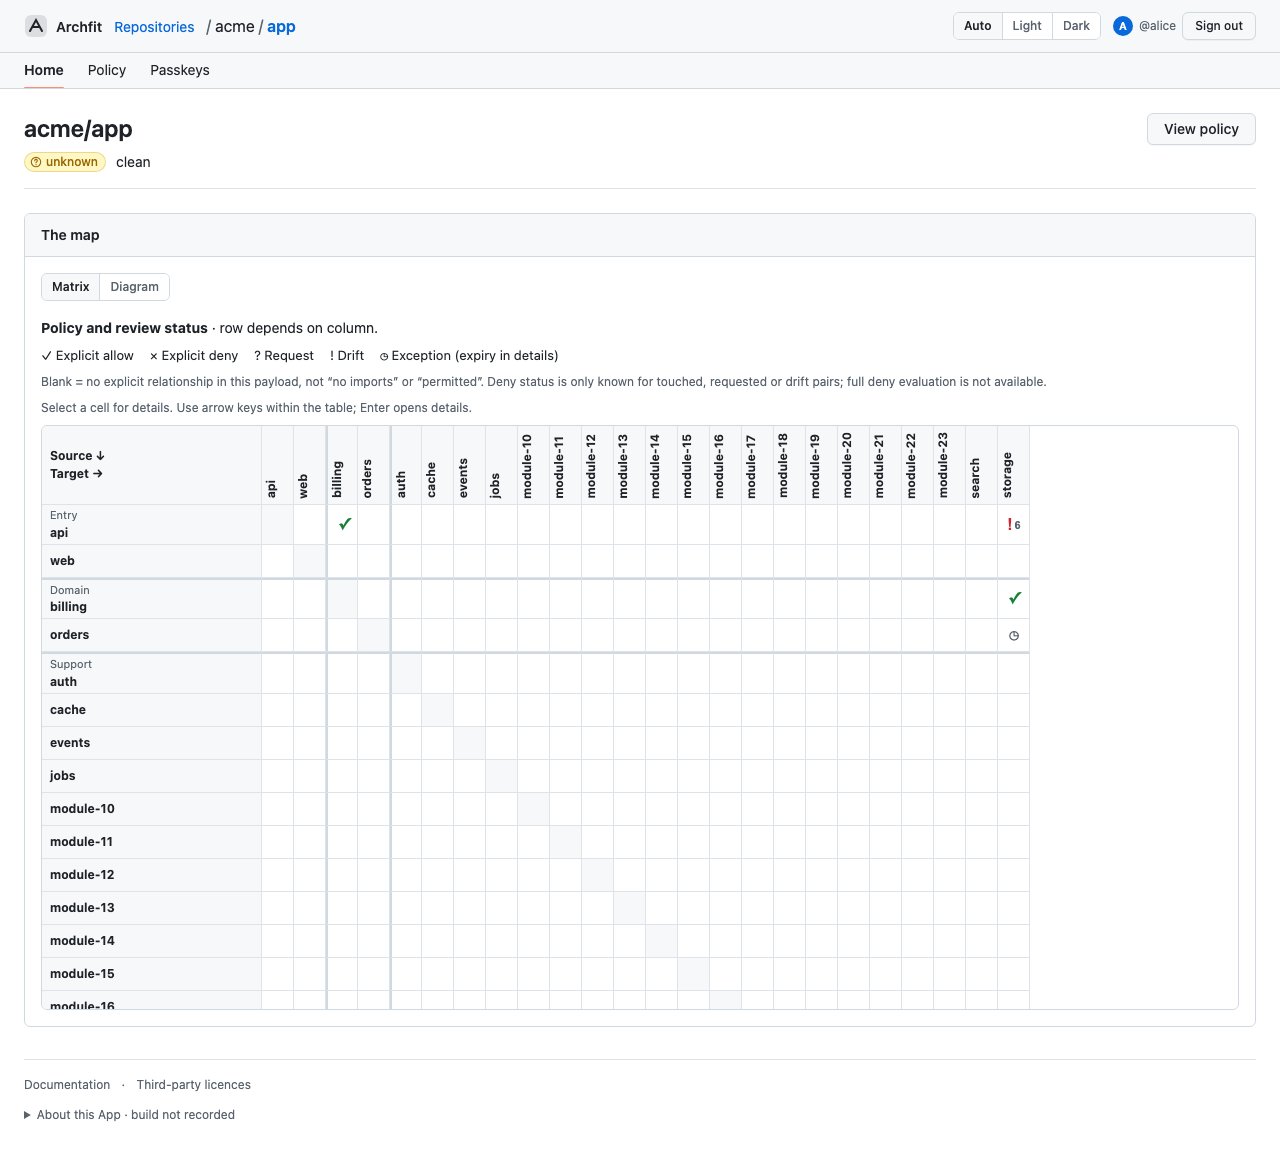
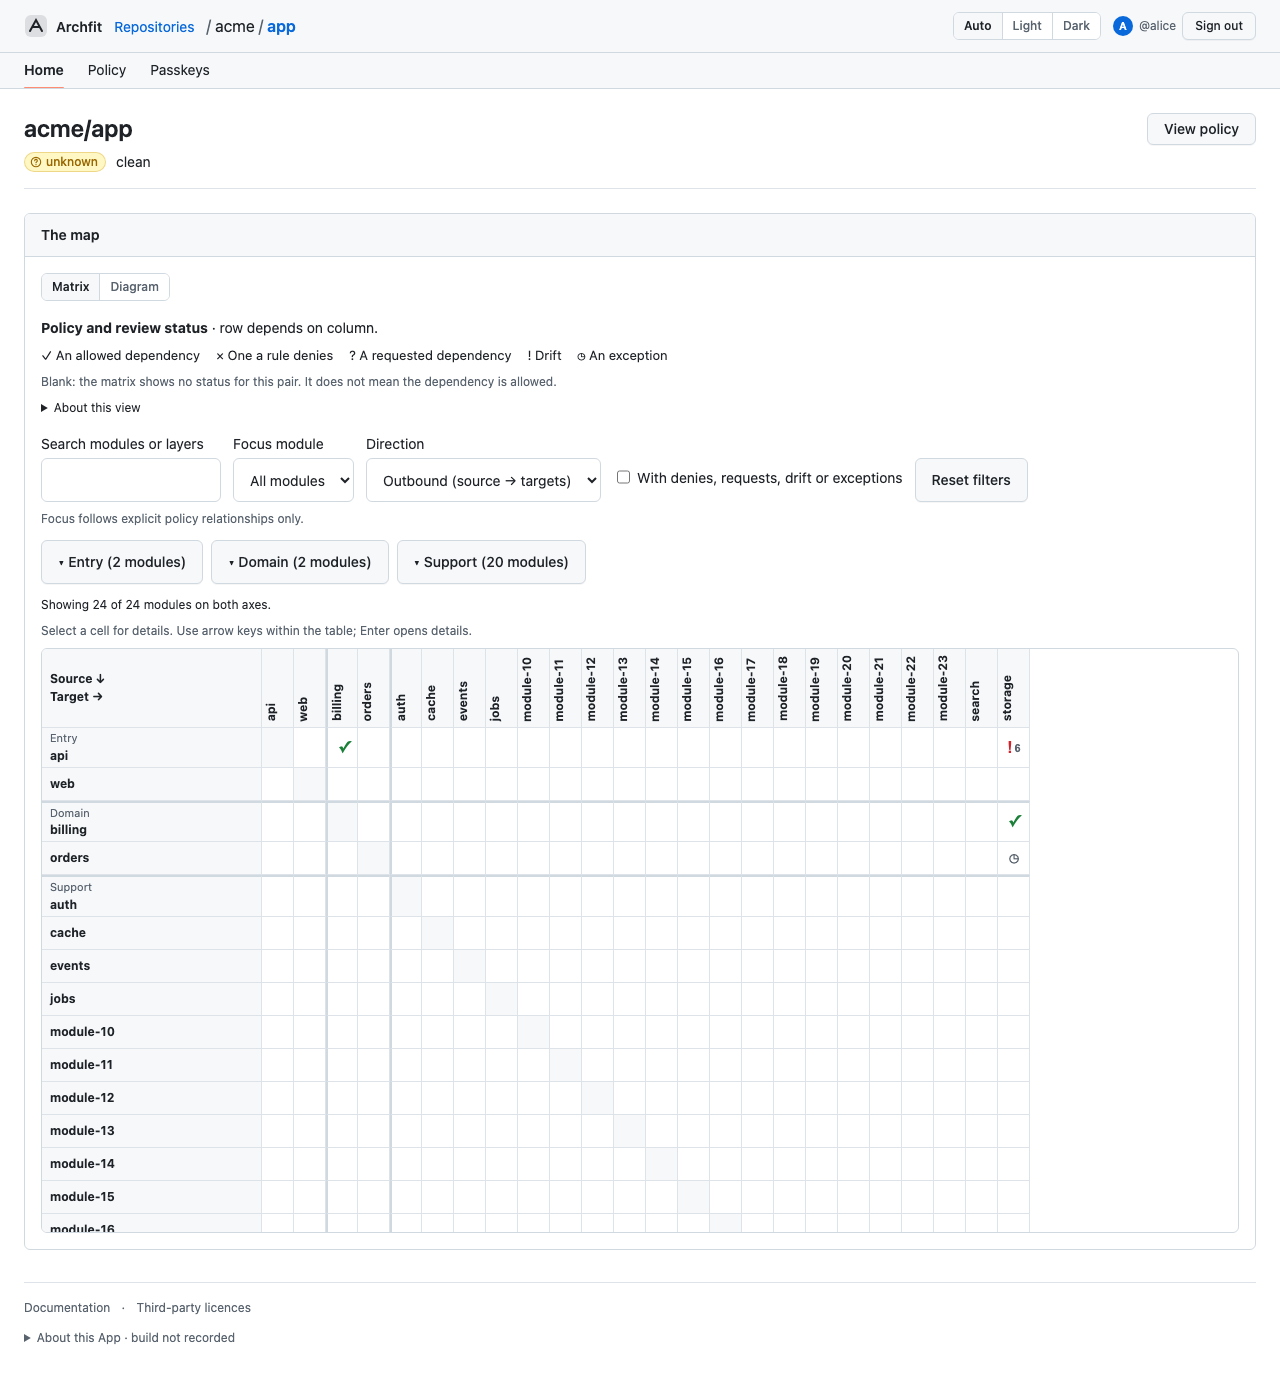
feat(web): matrix details, filters from 12 modules, plain copy (#197)
* feat(web): compact matrix from 12 modules, names break at _ and -, one symbol with a count per cell

32 px symbol cells, vertical column names and a 220 px row header make 24 modules fit 1280 px. A cell shows its
strongest status and how many statuses it has. Exceptions within seven days are ringed; later ones are grey.

* fix(web): matrix never reads an exception without a date as a pass

* fix(web): drop unused import

* docs(images): matrix screenshots for 24 modules at 1280 and 390 px

* feat(web): matrix details show the exception date; filters from 12 modules; plain copy

Legend uses the design's words for the five kinds. A blank cell means the policy says nothing about the pair;
the deny caveat moves into About this view. The dialog drops payload, Evidence scope and scan coverage. The
attention filter is named for what it shows. The search, focus, layer and attention filters appear from 12 modules.

* docs(images): matrix details dialog and legend

* fix(web): matrix uses the legend words everywhere; a blank cell is not a claim the policy is silent

Dialog statuses and cell labels use the same five words as the legend. A blank cell says the matrix shows no status, since a deny rule may apply to a pair the App did not touch.

diff --git a/web/src/components/map/Dsm.svelte b/web/src/components/map/Dsm.svelte
@@ -2,7 +2,7 @@
   import { tick } from 'svelte';
   import { repoPage } from '../../lib/route';
   import { mapLayers, type MapModel } from './model';
-  import { breakable, cellView, compactFrom, isNavKey, nextCell, pairIndex, pairKey, statusLabel, symbols, visibleModules, type Cell } from './dsm';
+  import { breakable, cellView, compactFrom, filtersFrom, isNavKey, kindWords, nextCell, pairIndex, pairKey, statusLabel, symbols, visibleModules, type Cell } from './dsm';
 
   let { model, repo }: { model: MapModel; repo: string } = $props();
   const id = $props.id();
@@ -103,12 +103,15 @@
   {:else}
   <p class="orientation"><strong>Policy and review status</strong> · row depends on column.</p>
   <ul class="legend" aria-label="Matrix legend">
-    <li>✓ Explicit allow</li><li>× Explicit deny</li><li>? Request</li><li>! Drift</li><li>◷ Exception (expiry in details)</li>
+    <li>{symbols.allowed} {kindWords.allowed}</li><li>{symbols.deny} {kindWords.deny}</li><li>{symbols.requested} {kindWords.requested}</li><li>{symbols.drift} {kindWords.drift}</li><li>{symbols.exception} {kindWords.exception}</li>
   </ul>
-  <p class="muted small" id={id + '-scope'}>Blank = no explicit relationship in this payload, not “no imports” or “permitted”.
-    Deny status is only known for touched, requested or drift pairs; full deny evaluation is not available.</p>
+  <p class="muted small" id={id + '-scope'}>Blank: the matrix shows no status for this pair. It does not mean the dependency is allowed.</p>
+  <details class="about small">
+    <summary>About this view</summary>
+    <p>Deny status is only shown for touched, requested or drift pairs. A blank pair may still be denied by a rule.</p>
+  </details>
 
-  {#if model.modules.length >= 50}
+  {#if model.modules.length >= filtersFrom}
     <div class="filters">
       <label>Search modules or layers<input class="form-control" type="search" bind:value={search} /></label>
       <label>Focus module<select class="form-control" bind:value={focus}>
@@ -120,10 +123,10 @@
       <label>Direction<select class="form-control" bind:value={direction}>
         <option value="outbound">Outbound (source → targets)</option><option value="inbound">Inbound (sources → target)</option>
       </select></label>
-      <label class="attention"><input type="checkbox" bind:checked={attention} /> Needs attention</label>
+      <label class="attention"><input type="checkbox" bind:checked={attention} /> With denies, requests, drift or exceptions</label>
       <button class="btn" onclick={reset}>Reset filters</button>
     </div>
-    <p class="muted small">Focus follows explicit payload relationships only. Needs attention shows modules with denies, requests, drift or exceptions.</p>
+    <p class="muted small">Focus follows explicit policy relationships only.</p>
     <div class="layers" role="group" aria-label="Visible layers">
       {#each mapLayers(model) as layer (layer)}
         <button class="btn" aria-expanded={!collapsed.includes(layer)} onclick={() => toggleLayer(layer)}>
@@ -195,7 +198,7 @@
       <button class="btn" onclick={() => dialog.close()}>Close details</button>
     </div>
     <dl><dt>Source</dt><dd>{selected.from}</dd><dt>Target</dt><dd>{selected.to}</dd></dl>
-    <h4>All payload statuses</h4>
+    <h4>Statuses</h4>
     <ul class="statuses">
       {#each index.get(pairKey(selected.from, selected.to)) ?? [] as line, i (i)}
         <li>
@@ -204,13 +207,11 @@
             <a href={repoPage(repo, `/requests/${line.request}`)}>Open request #{line.request}</a>
           {/if}
         </li>
-      {:else}<li>No explicit relationship in this payload.</li>{/each}
+      {:else}<li>The matrix shows no status for this pair. A deny rule may still apply; see About this view.</li>{/each}
     </ul>
-    <h4>Evidence scope</h4>
-    <p>Policy and review status from this payload only. Allowed entries are policy declarations, not observed imports.
-      Deny status is only known for touched, requested or drift pairs; full deny evaluation is not available.
-      A blank cell does not mean “no imports” or “permitted”.</p>
-    <p>No observed dependency counts, scan coverage or snapshot identity are provided. Exception dates and days left are as reported by the server, not a fresh expiry check.</p>
+    <h4>About this pair</h4>
+    <p>Allowed entries are policy declarations, not observed imports. Exception dates are the policy's own; an exception
+      without a date shows no date.</p>
   {/if}
 </dialog>
 
@@ -219,6 +220,7 @@
   .orientation { margin-bottom: 8px; }
   .legend { display: flex; flex-wrap: wrap; list-style: none; gap: 6px 16px; padding: 0; margin: 8px 0; font-size: 13px; }
   .small { margin-block: 8px; }
+  .about summary { cursor: pointer; }
   .viewport { max-height: 65vh; max-width: 100%; overflow: auto; border: 1px solid var(--border); border-radius: var(--radius); }
   table { border-collapse: separate; border-spacing: 0; width: max-content; min-width: 100%; font-size: 13px; }
   th, td { padding: 0; border-right: 1px solid var(--border-muted); border-bottom: 1px solid var(--border-muted); text-align: center; }

diff --git a/web/e2e/dsm.spec.ts b/web/e2e/dsm.spec.ts
@@ -80,8 +80,10 @@ test('DSM preserves all statuses, keyboard navigation and modal focus return', a
     );
   }
   await expect(detail).toContainText('expires 2027-01-01 · 0 days left');
+  await detail.screenshot({ path: '../docs/images/matrix-details-dialog.png' });
   await expect(detail).toContainText('not observed imports');
-  await expectClean(page, ['Policy and review status', 'scan coverage']);
+  await expect(detail).toContainText('expires 2027-01-01 · 0 days left');
+  await expectClean(page, ['Policy and review status']);
   await page.keyboard.press('Escape');
   await expect(detail).toBeHidden();
   await expect(cell).toBeFocused();
@@ -89,7 +91,7 @@ test('DSM preserves all statuses, keyboard navigation and modal focus return', a
   const blank = page.getByRole('button', { name: 'api to web: no rule' });
   await expect(blank).toBeFocused();
   await page.keyboard.press('Enter');
-  await expect(page.getByRole('dialog')).toContainText('No explicit relationship in this payload.');
+  await expect(page.getByRole('dialog')).toContainText('The matrix shows no status for this pair.');
   await page.getByRole('button', { name: 'Close details' }).click();
   await expect(blank).toBeFocused();
 });
@@ -110,6 +112,12 @@ test('DSM compact density: 24 modules fit 1280px; 11 stay comfortable', async ({
   await expect(head).toHaveAttribute('title', 'module-10');
   expect(await head.evaluate((el) => getComputedStyle(el).overflowWrap)).toBe('normal');
   await page.screenshot({ path: '../docs/images/matrix-24-1280.png', fullPage: true });
+});
+
+test('DSM legend screenshot', async ({ page }) => {
+  await page.setViewportSize({ width: 1280, height: 844 });
+  await open(page, '/r/acme/app', { [api]: () => [200, fixture(5)] });
+  await page.getByRole('list', { name: 'Matrix legend' }).locator('xpath=..').screenshot({ path: '../docs/images/matrix-legend.png' });
 });
 
 test('DSM 24 modules at a phone width: screenshot for review', async ({ page }) => {
@@ -205,6 +213,14 @@ test('DSM says so when only one module is declared', async ({ page }) => {
   await expect(page.getByRole('list', { name: 'Matrix legend' })).toHaveCount(0);
 });
 
+test('DSM shows the filters from 12 modules and hides them below', async ({ page }) => {
+  await open(page, '/r/acme/app', { [api]: () => [200, fixture(12)] });
+  await expect(page.getByLabel('Search modules or layers')).toBeVisible();
+  await expect(page.getByLabel('With denies, requests, drift or exceptions')).toBeVisible();
+  await open(page, '/r/acme/app', { [api]: () => [200, fixture(11)] });
+  await expect(page.getByLabel('Search modules or layers')).toHaveCount(0);
+});
+
 test('DSM large map filters retain square axes and bounded two-axis scrolling', async ({ page }) => {
   // Axe scans all 2,500 cells twice; allow its measured cost under full-suite concurrency.
   test.slow();
@@ -225,7 +241,7 @@ test('DSM large map filters retain square axes and bounded two-axis scrolling', 
   await page.getByLabel('Direction').selectOption('outbound');
   await expect(page.getByRole('rowheader')).toHaveCount(1);
   await page.getByRole('button', { name: 'Reset filters' }).click();
-  await page.getByLabel('Needs attention').check();
+  await page.getByLabel('With denies, requests, drift or exceptions').check();
   await expect(page.getByRole('rowheader')).toHaveCount(3);
   await page.getByRole('button', { name: /Support \(46 modules\)/ }).click();
   await expect(page.getByRole('rowheader')).toHaveCount(2);
@@ -236,7 +252,7 @@ test('DSM large map filters retain square axes and bounded two-axis scrolling', 
   await page.getByRole('button', { name: 'Reset filters' }).click();
   await expect(page.getByRole('rowheader')).toHaveCount(50);
   expect(await page.evaluate(() => document.documentElement.scrollWidth)).toBeLessThanOrEqual(390);
-  await expectClean(page, ['Policy and review status', 'Needs attention']);
+  await expectClean(page, ['Policy and review status']);
 });
 
 test('Matrix is the default without a worker; explicit Diagram choice survives reload and resize', async ({ page }) => {

diff --git a/web/src/components/map/dsm.ts b/web/src/components/map/dsm.ts
@@ -7,12 +7,13 @@ export const symbols: Record<LineKind, string> = {
   drift: '!',
   exception: '◷',
 };
-const statuses: Record<LineKind, string> = {
-  allowed: 'Explicit allow',
-  deny: 'Explicit deny',
-  requested: 'Request',
+// The legend's words for the five kinds, shared by the legend, the cell labels and the details.
+export const kindWords: Record<LineKind, string> = {
+  allowed: 'An allowed dependency',
+  requested: 'A requested dependency',
+  deny: 'One a rule denies',
+  exception: 'An exception',
   drift: 'Drift',
-  exception: 'Exception',
 };
 
 export const pairKey = (from: string, to: string): string => JSON.stringify([from, to]);
@@ -31,7 +32,7 @@ export function pairIndex(lines: MapLine[]): Map<string, MapLine[]> {
 
 export function statusLabel(line: MapLine): string {
   return [
-    statuses[line.kind],
+    kindWords[line.kind],
     line.rule && `rule: ${line.rule}`,
     line.request !== undefined && `request #${line.request}`,
     line.expires && `expires ${line.expires}`,
@@ -113,6 +114,8 @@ export function nextCell(key: string, ctrl: boolean, from: Cell, size: number, o
 
 // From this many modules the matrix draws 32 px cells and vertical column names, so 24 columns fit a laptop page.
 export const compactFrom = 12;
+// From this many modules the search, focus, layer and attention filters appear; below it they only add noise.
+export const filtersFrom = 12;
 // The App opens an expiry issue seven days before an exception ends, so that is "near" here too.
 export const soonDays = 7;
 

diff --git a/web/src/components/map/dsm.test.ts b/web/src/components/map/dsm.test.ts
@@ -120,6 +120,15 @@ describe('DSM cell navigation', () => {
   });
 });
 
+describe('DSM kind words', () => {
+  it('labels every status with the legend words', () => {
+    expect(statusLabel({ from: 'a', to: 'b', kind: 'allowed' })).toBe('An allowed dependency');
+    expect(statusLabel({ from: 'a', to: 'b', kind: 'requested', request: 7 })).toBe('A requested dependency · request #7');
+    expect(statusLabel({ from: 'a', to: 'b', kind: 'deny', rule: 'r' })).toBe('One a rule denies · rule: r');
+    expect(statusLabel({ from: 'a', to: 'b', kind: 'exception' })).toBe('An exception');
+  });
+});
+
 describe('DSM names', () => {
   it.each([
     ['multiplexer_backends', ['multiplexer_', 'backends']],

diff --git a/docs/user-guide.md b/docs/user-guide.md
@@ -79,28 +79,28 @@ your explicit choice when local storage is available. Matrix needs no diagram la
 The matrix shows **Policy and review status**, not observed imports. Rows are sources and columns are targets:
 **row depends on column**. Both axes use the same order: policy layer order (outer first), then module name.
 
-| Symbol | Meaning                                                                     |
-| ------ | --------------------------------------------------------------------------- |
-| ✓      | Explicit allow in the policy.                                               |
-| ×      | Explicit deny reported for a touched, requested or drift pair.              |
-| ?      | A request.                                                                  |
-| !      | Drift.                                                                      |
-| ◷      | An exception; select the cell for its expiry and server-reported days left. |
+| Symbol | Meaning                                                              |
+| ------ | -------------------------------------------------------------------- |
+| ✓      | An allowed dependency in the policy.                                 |
+| ×      | One a rule denies.                                                   |
+| ?      | A requested dependency.                                              |
+| !      | Drift.                                                               |
+| ◷      | An exception. Within seven days of its date, or past it, the cell is ringed. |
 
 From 12 modules the matrix is compact: 32 px cells, vertical column names and a 220 px row header, so 24 modules fit
 a laptop page without horizontal scrolling. Names break only after `_` and `-`; hover a name for the full text.
-A cell shows its strongest status (drift, deny, request, allow) and, when it has several statuses, how many. An
-exception that ends within seven days (or has ended) is ringed and ranks just below deny; a later exception is grey
-and does not change the symbol. An exception with no date is never read as a pass: it shows ◷ in the usual colour. Every status remains in the cell's accessible name and in its details, including
-multiple rules, requests and exceptions. A blank means
-**no explicit relationship in this payload**, not “no imports” or “permitted”. Deny status is not fully evaluated
-for all pairs. Select a cell for all rules, request links, exception dates and evidence scope. Tab enters the
-table; arrow keys move between cells (the shaded diagonal is skipped), Enter opens details, and Escape closes details
-and returns focus. A repository with one module shows "One module is declared, so there is nothing to draw."
+A cell shows its strongest status (drift, deny, request, allow) and, when it has several statuses, how many. A later
+exception is grey and does not change the symbol. An exception with no date is never read as a pass.
 
-Headers stay visible while the table scrolls in either direction. At 50 or more modules, search names or layers,
-focus on explicit inbound/outbound neighbors, collapse layers, or use **Needs attention** to show modules
-with denies, requests, drift or exceptions. Filters use the same modules on both axes; **Reset filters** restores all.
+A blank means **the matrix shows no status for this pair**. It does not mean the dependency is allowed, and a deny rule may still apply. Deny status is
+only known for touched, requested or drift pairs; **About this view** explains this. Every status remains in the cell's
+accessible name and in its details, including multiple rules, requests and exception dates. Select a cell for details.
+Tab enters the table; arrow keys move between cells (the shaded diagonal is skipped), Enter opens details, and Escape
+closes details and returns focus. A repository with one module shows "One module is declared, so there is nothing to draw."
+
+Headers stay visible while the table scrolls in either direction. From 12 modules, search names or layers, focus on
+explicit inbound/outbound neighbors, collapse layers, or use **With denies, requests, drift or exceptions** to show only
+modules with those statuses. Filters use the same modules on both axes; **Reset filters** restores all.
 
 **Diagram** loads the SVG and its layout worker only when selected, including on phones. It shows declared
 volatility. Its line precedence is drift, deny, request, exception, allow: unlike Matrix, it draws only one
